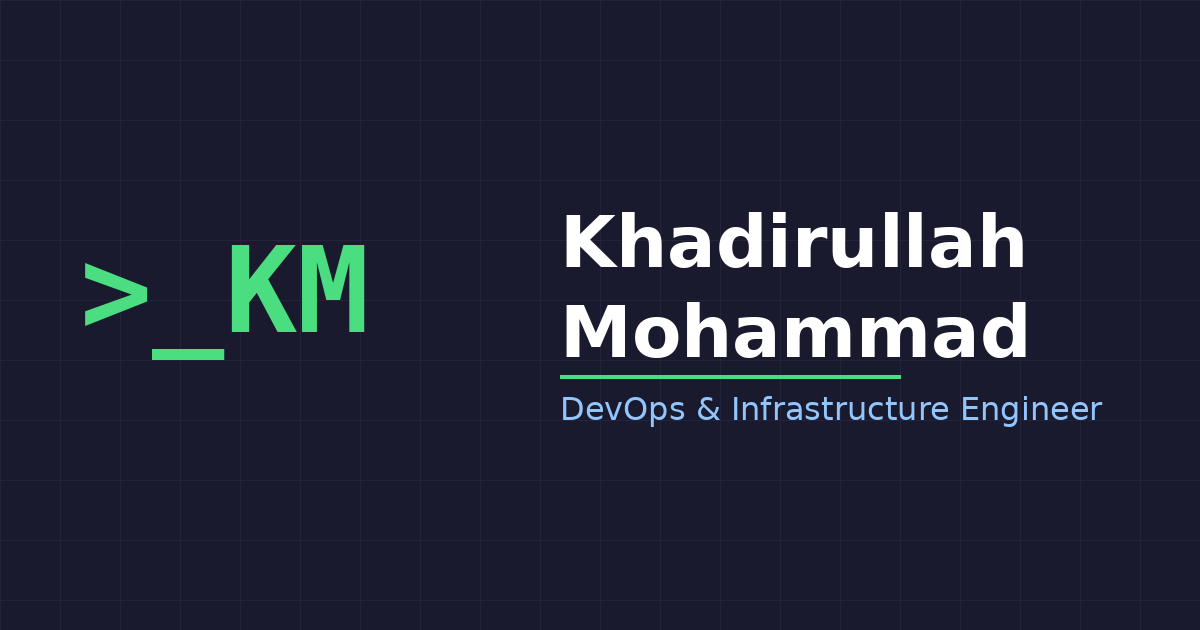
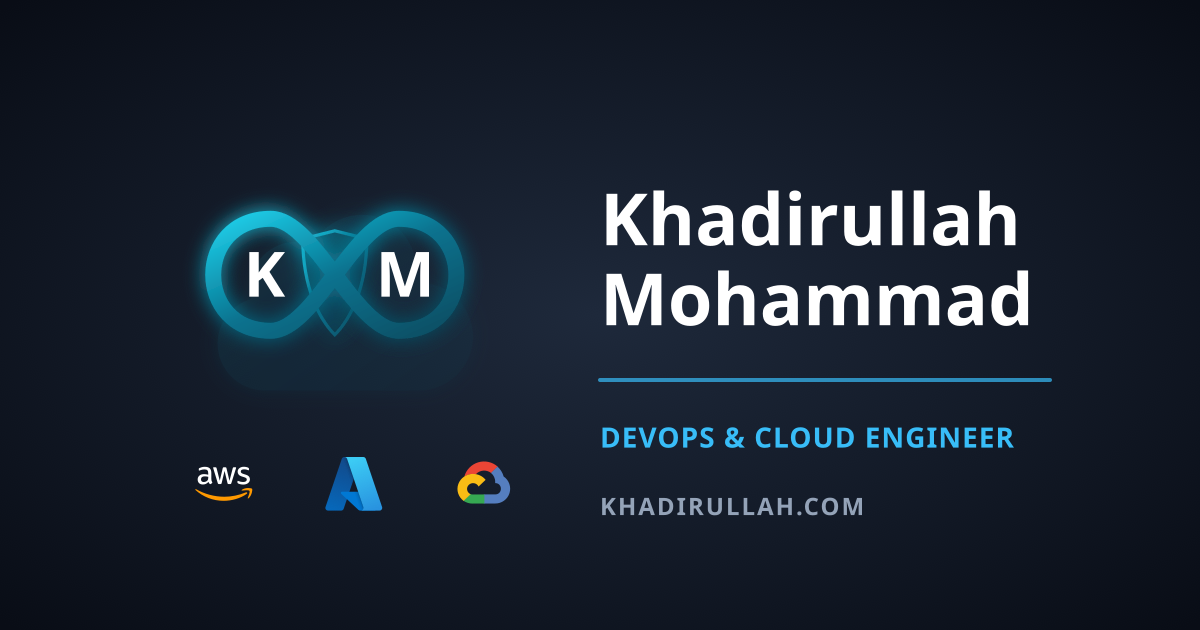
feat: standardize brand identity and optimize repository assets
- Optimize site title to "Khadirullah Mohammad | DevOps & Cloud Engineer" for SEO
- Update the logo, favicons and og-image (km.svg and og-image.png)
- Generate and apply perfectly centered Open Graph image for social previews
- Archive master versions of old logos in brand-archive for version history
- Add official cloud and tool logos in brand-archive

diff --git a/static/resume/index.html b/static/resume/index.html
@@ -557,6 +557,7 @@
         <span><a href="https://khadirullah.com">khadirullah.com</a></span>
         <span><a href="https://github.com/khadirullah">github.com/khadirullah</a></span>
         <span><a href="https://linkedin.com/in/khadirullah">linkedin.com/in/khadirullah</a></span>
+        <span><a href="https://x.com/khadirullah_">x.com/khadirullah_</a></span>
       </div>
     </div>
 

diff --git a/content/about/index.md b/content/about/index.md
@@ -129,6 +129,7 @@ I'm actively looking for **DevOps Engineer**, **Cloud Engineer**, and **Infrastr
 - {{< icon "email" >}} **Email:** [contact@khadirullah.com](mailto:contact@khadirullah.com)
 - {{< icon "github" >}} **GitHub:** [github.com/khadirullah](https://github.com/khadirullah)
 - {{< icon "linkedin" >}} **LinkedIn:** [linkedin.com/in/khadirullah](https://linkedin.com/in/khadirullah)
+- {{< icon "x-twitter" >}} **X (Twitter):** [x.com/khadirullah_](https://x.com/khadirullah_)
 - 📄 **Resume:** [View Resume](/resume/)
 
 {{< button href="mailto:contact@khadirullah.com" >}}

diff --git a/content/_index.md b/content/_index.md
@@ -1,5 +1,5 @@
 ---
-title: "Home"
+title: "Khadirullah Mohammad | DevOps & Cloud Engineer"
 ---
 
 I build CI/CD pipelines, manage cloud infrastructure, and automate everything I can — with Docker, Kubernetes, Terraform, and AWS. Recently built an AI-powered incident correlation tool that JOINs data across GitHub, Sentry, and Slack using cross-source SQL.
